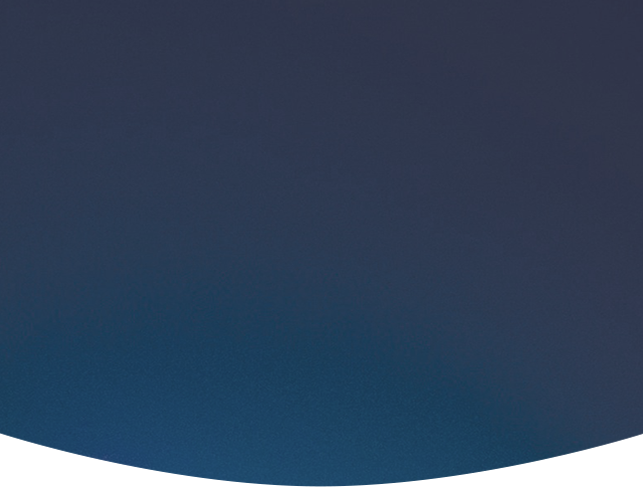
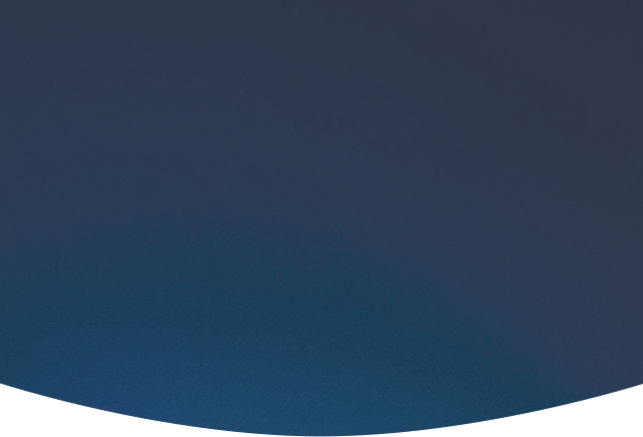
Adjust login

diff --git a/mobile/www/css/buttons.css b/mobile/www/css/buttons.css
@@ -11,8 +11,8 @@
 /* --- Size ---*/
 
 .small-btn  { height: 34px; width: 34px; padding: 3px 5px; font-size: 18px; border-width: 2px !important;}
-.medium-btn  { height: 48px; width: 48px; padding: 3px; font-size: 24px;}
-.large-btn  { height: 68px; width: 68px; padding: 10px; font-size: 32px;}
+.medium-btn  { height: 48px; width: 48px; padding: 5px 10px; font-size: 24px;}
+.large-btn  { height: 68px; width: 68px; padding: 10px 15px; font-size: 32px;}
 
 /* --- Space ---*/
 

diff --git a/mobile/www/css/pages/login.css b/mobile/www/css/pages/login.css
@@ -12,8 +12,8 @@
     display: block;
     width: 100%;
     height: 30%;
-    min-height: 245px;
-    padding-top: 25%;
+    min-height: 240px;
+    padding-top: 20%;
     background: url(../../img/bg-part-top-login.png) no-repeat;
     background-size: 100%;
 }
@@ -33,7 +33,7 @@
 /* === Part Bottom === */
 
 .connect-network {
-    margin-bottom: 30px;
+    margin-bottom: 13px;
 }
 
 .connect-network .sep-hrz {

diff --git a/mobile/www/templates/login.html b/mobile/www/templates/login.html
@@ -26,6 +26,7 @@
                 </div>
 
                 <span class="col-50 element-centered sep-hrz primary-dark-sep"></span>
+                </br>
                 <div class="text-center connect-network">
                     <h5 class="white-title">Non merci !</h5>
                     <button class="round-btn medium-btn white-btn" ng-click="goToEvents()">

diff --git a/mobile/www/css/components.css b/mobile/www/css/components.css
@@ -108,6 +108,9 @@
     -webkit-transform: translate(0%,-50%);
 }
 
+/* --- Time List --- */
+
+
 
 /* ==== Abstract Item ==== */
 
